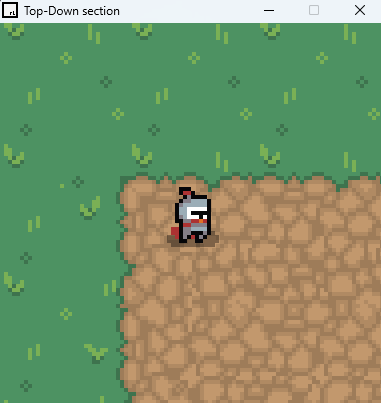
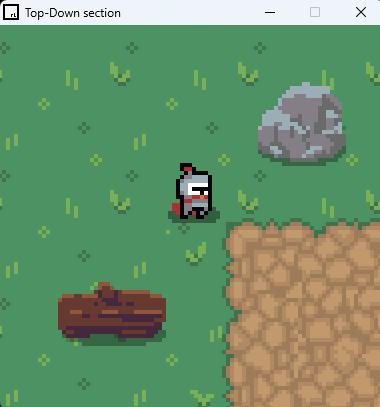
readme updated, prop render style modified

diff --git a/main.cpp b/main.cpp
@@ -21,7 +21,10 @@ int main()
 
     Character knight(windowWidth, windowHeight);
 
-    Prop rock{Vector2{0.f, 0.f}, LoadTexture("nature_tileset/Rock.png")};
+    Prop props[2]{
+        Prop{Vector2{600.f, 300.f}, LoadTexture("nature_tileset/Rock.png")},
+        Prop{Vector2{400.f, 500.f}, LoadTexture("nature_tileset/Log.png")}
+    };
 
     SetTargetFPS(60);
     while (!WindowShouldClose())
@@ -35,7 +38,11 @@ int main()
         // Draw Map
         DrawTextureEx(map, mapPos, 0.0, mapScale, WHITE);
         
-        rock.Render(knight.getWorldPos());
+        for (auto prop : props)
+        {
+            prop.Render(knight.getWorldPos());
+        }
+
         knight.tick(GetFrameTime());
 
         //check map bounds
